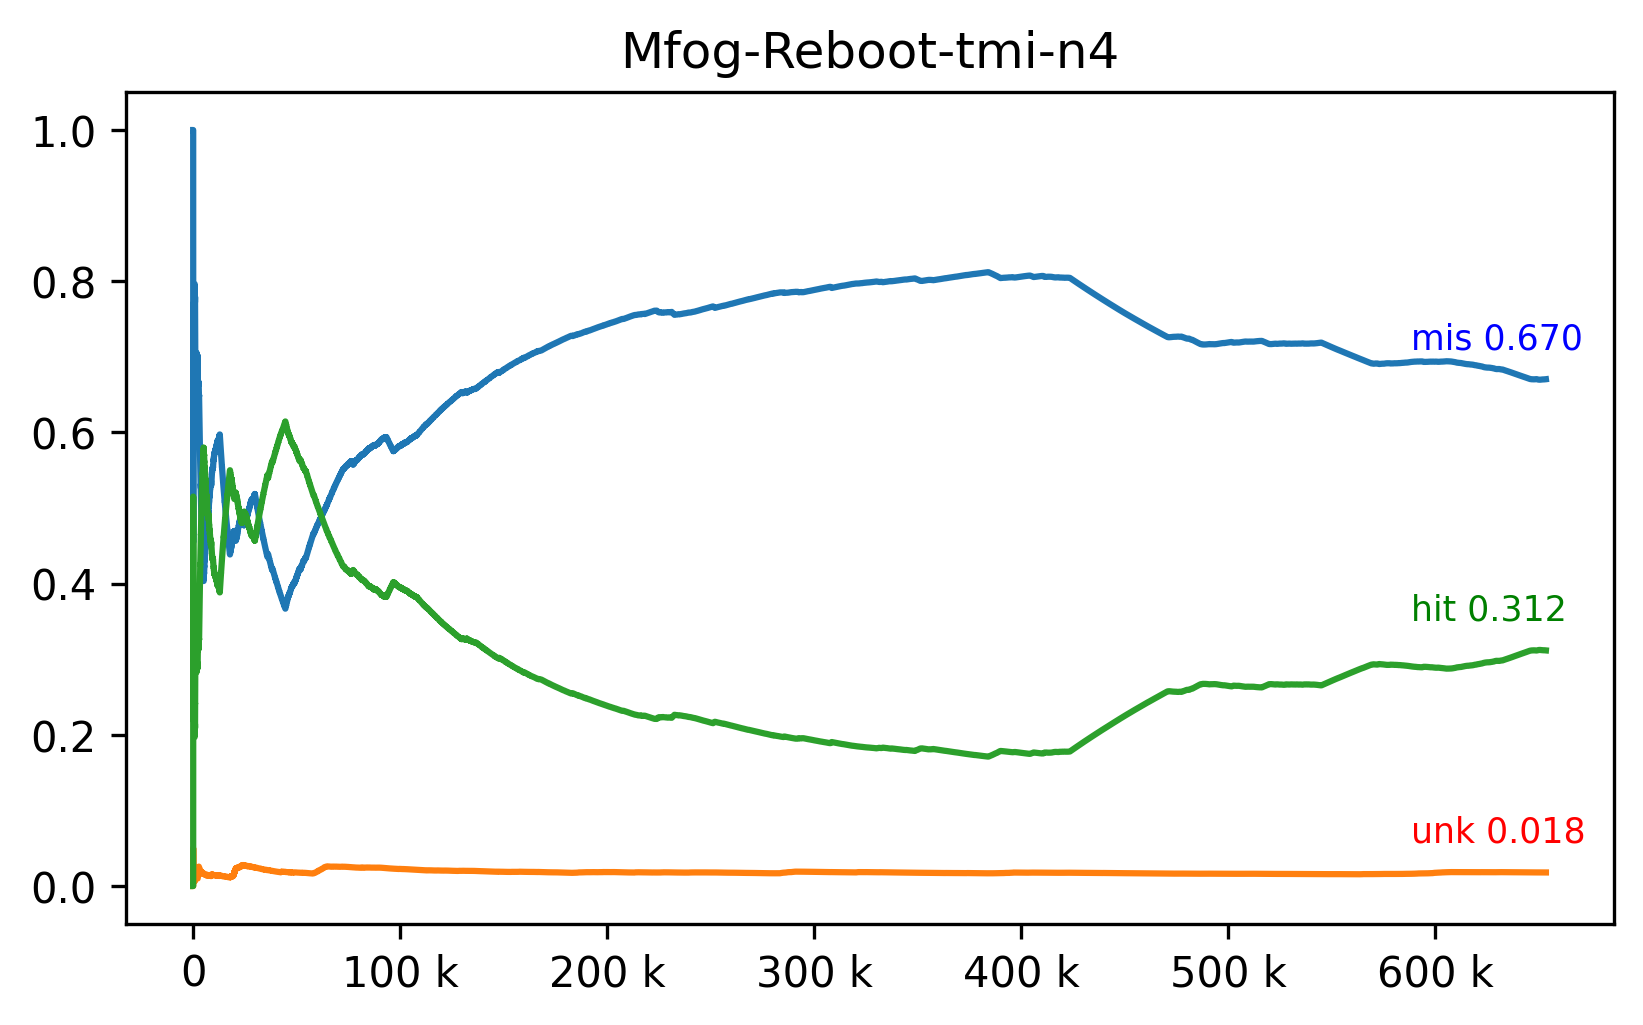
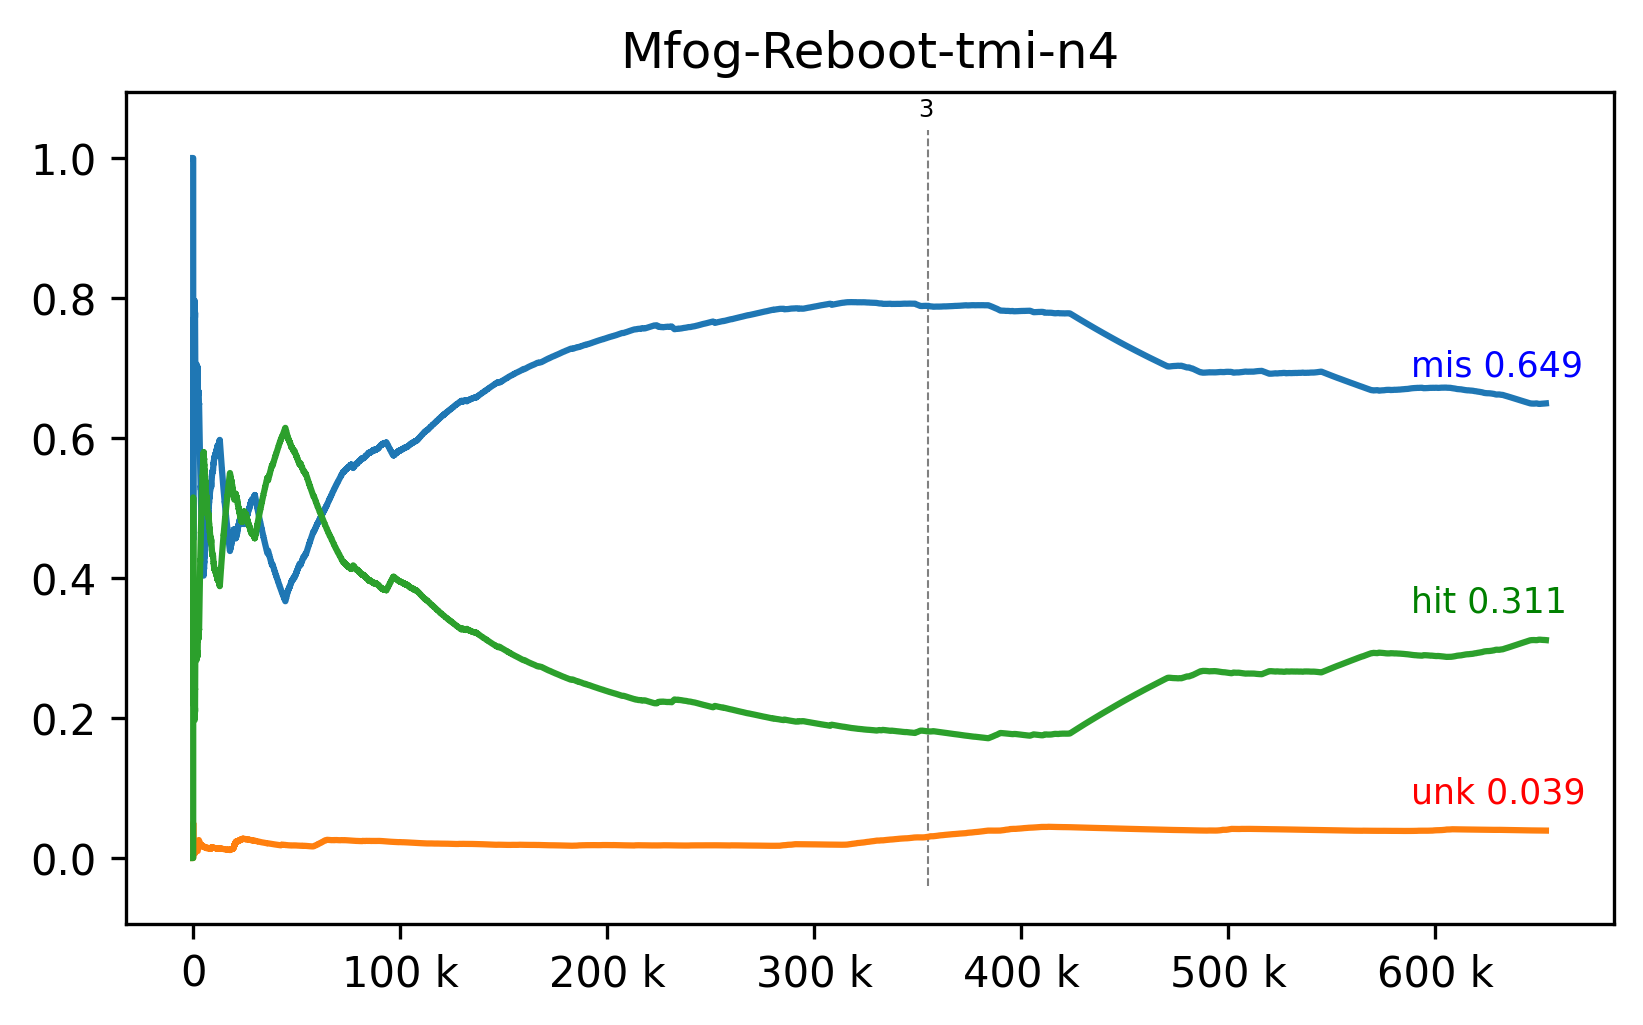
reboot turn on novelty detection (id was not incremented)

diff --git a/src/reboot/threaded-mpi.c b/src/reboot/threaded-mpi.c
@@ -23,12 +23,12 @@
 #define MFOG_TAG_UNKNOWN 2005
 #define MFOG_EOS_MARKER '\127'
 
-typedef struct {
-    Example *buff;
-    int size, head, tail, len;
-    // Semaforo de dados para o emissor
-    sem_t senderSem;
-} CircularExampleBuffer;
+// typedef struct {
+//     Example *buff;
+//     int size, head, tail, len;
+//     // Semaforo de dados para o emissor
+//     sem_t senderSem;
+// } CircularExampleBuffer;
 
 struct ThreadArgs_s {
     int kParam, dim, minExamplesPerCluster;
@@ -36,13 +36,15 @@ struct ThreadArgs_s {
     // mpi stuff
     int mpiRank, mpiSize;
     char *mpiProcessorName;
-    CircularExampleBuffer unkBuffer;
+    // CircularExampleBuffer unkBuffer;
     Model *model;
     pthread_mutex_t modelMutex;
+    sem_t modelReadySemaphore;
 };
 typedef struct ThreadArgs_s ThreadArgs;
 
 void *classifier(void *arg) {
+    clock_t start = clock();
     ThreadArgs *args = arg;
     Example example;
     example.val = calloc(args->dim, sizeof(double));
@@ -72,13 +74,13 @@ void *classifier(void *arg) {
         (*inputLine)++;
         //
         while (model->size < args->kParam) {
-            fprintf(stderr, "model incomplete %d, sleep(1);\n", model->size);
-            sleep(1);
+            fprintf(stderr, "model incomplete %d, wait(modelReadySemaphore);\n", model->size);
+            sem_wait(&args->modelReadySemaphore);
         }
         pthread_mutex_lock(&args->modelMutex);
         identify(args->kParam, args->dim, args->precision, args->radiusF, model, &example, &match);
         pthread_mutex_unlock(&args->modelMutex);
-        // 
+        //
         example.label = match.label;
         position = 0;
         assertMpi(MPI_Pack(&example, sizeof(Example), MPI_BYTE, buffer, bufferSize, &position, MPI_COMM_WORLD));
@@ -91,6 +93,7 @@ void *classifier(void *arg) {
         // for (unsigned int d = 0; d < args->dim; d++)
         //     printf(", %le", example.val[d]);
         // printf("\n");
+        //
         // fprintf(stderr, "U-sender Example(%u, %c, %le)\n", example.id, example.label, example.val[0]);
         // assertMpi(MPI_Send(buffer, position, MPI_PACKED, MFOG_RANK_MAIN, MFOG_TAG_UNKNOWN, MPI_COMM_WORLD));
         // the buffer is full when the head pointer is one less than the tail pointer.
@@ -106,9 +109,10 @@ void *classifier(void *arg) {
         // valuePtr = example.val;
         // sem_post(&args->unkBuffer.senderSem);
     }
-    marker("classifier done");
+    fprintf(stderr, "[%s] %le seconds. At %s:%d\n", "classifier", ((double)clock() - start) / 1000000.0, __FILE__, __LINE__);
     return inputLine;
 }
+/*
 void *u_sender(void *arg) {
     ThreadArgs *args = arg;
     Example example;
@@ -145,6 +149,7 @@ void *u_sender(void *arg) {
     }
     marker("u_sender done");
 }
+*/
 
 /**
  * @brief In rank N != 0, this thread receives model updates.
@@ -153,6 +158,7 @@ void *u_sender(void *arg) {
  * @return void* 
  */
 void *m_receiver(void *arg) {
+    clock_t start = clock();
     ThreadArgs *args = arg;
     Cluster *cl = calloc(1, sizeof(Cluster));
     cl->center = calloc(args->dim, sizeof(double));
@@ -161,7 +167,6 @@ void *m_receiver(void *arg) {
     Model *model = args->model;
     fprintf(stderr, "m_receiver at %d/%d\n", args->mpiRank, args->mpiSize);
     while (1) {
-        // marker("MPI_Bcast");
         assertMpi(MPI_Bcast(cl, sizeof(Cluster), MPI_BYTE, MFOG_RANK_MAIN, MPI_COMM_WORLD));
         if (cl->label == MFOG_EOS_MARKER) break;
         assertMpi(MPI_Bcast(valuePtr, args->dim, MPI_DOUBLE, MFOG_RANK_MAIN, MPI_COMM_WORLD));
@@ -177,11 +182,18 @@ void *m_receiver(void *arg) {
         model->clusters[model->size] = *cl;
         model->size++;
         pthread_mutex_unlock(&args->modelMutex);
+        if (model->size == args->kParam) {
+            fprintf(stderr, "model complete\n");
+            sem_post(&args->modelReadySemaphore);
+        }
+        // if (model->size > args->kParam) {
+        //     marker("extra cluster");
+        // }
         // new center array, prep for next cluster
         cl->center = calloc(args->dim, sizeof(double));
         valuePtr = cl->center;
     }
-    marker("m_receiver done");
+    fprintf(stderr, "[%s] %le seconds. At %s:%d\n", "m_receiver", ((double)clock() - start) / 1000000.0, __FILE__, __LINE__);
     return model;
 }
 
@@ -192,6 +204,7 @@ void *m_receiver(void *arg) {
  * @return void* ptr to int consumed lines
  */
 void *sampler(void *arg) {
+    clock_t start = clock();
     ThreadArgs *args = arg;
     unsigned int id = 0;
     Example example;
@@ -249,7 +262,7 @@ void *sampler(void *arg) {
     for (dest = 1; dest < args->mpiSize; dest++) {
         assertMpi(MPI_Send(buffer, position, MPI_PACKED, dest, MFOG_TAG_EXAMPLE, MPI_COMM_WORLD));
     }
-    marker("Sampler done");
+    fprintf(stderr, "[%s] %le seconds. At %s:%d\n", "sampler", ((double)clock() - start) / 1000000.0, __FILE__, __LINE__);
     return inputLine;
 }
 
@@ -261,6 +274,7 @@ void *sampler(void *arg) {
  * @return void* ptr to int consumed lines
  */
 void *detector(void *arg) {
+    clock_t start = clock();
     ThreadArgs *args = arg;
     size_t *inputLine = calloc(1, sizeof(size_t));
     int streams = args->mpiSize - 1;
@@ -300,6 +314,7 @@ void *detector(void *arg) {
             continue;
         }
         //
+        id = example.id > id ? example.id : id;
         printf("%10u,%s\n", example.id, printableLabel(example.label));
         if (example.label != UNK_LABEL) continue;
         printf("Unknown: %10u", example.id);
@@ -312,10 +327,12 @@ void *detector(void *arg) {
         example.val = calloc(dim, sizeof(double));
         if (unknownsSize >= unknownsMaxSize) {
             unknownsMaxSize *= 2;
+            // marker("realloc unknowns");
             unknowns = realloc(unknowns, unknownsMaxSize * sizeof(Example));
         }
         //
         if (unknownsSize % noveltyDetectionTrigger == 0 && id - lastNDCheck > noveltyDetectionTrigger) {
+            // marker("noveltyDetection");
             lastNDCheck = id;
             unsigned int prevSize = model->size;
             noveltyDetection(PARAMS, model, unknowns, unknownsSize);
@@ -346,14 +363,12 @@ void *detector(void *arg) {
     Cluster cl;
     cl.label = MFOG_EOS_MARKER;
     assertMpi(MPI_Bcast(&cl, sizeof(Cluster), MPI_BYTE, MFOG_RANK_MAIN, MPI_COMM_WORLD));
-    marker("detector done");
+    fprintf(stderr, "[%s] %le seconds. At %s:%d\n", "detector", ((double)clock() - start) / 1000000.0, __FILE__, __LINE__);
     return inputLine;
 }
 
 int main(int argc, char const *argv[]) {
-    // int result, count, i, tag;
-    srand(getpid());
-
+    clock_t start = clock();
     ThreadArgs args;
     args.kParam=100;
     args.dim=22;
@@ -365,10 +380,10 @@ int main(int argc, char const *argv[]) {
     double precision = args.precision, radiusF = args.radiusF, noveltyF = args.noveltyF;
     //
     int provided;
-    int result = MPI_Init_thread(&argc, (char***) &argv, MPI_THREAD_MULTIPLE, &provided);
-    if (result != MPI_SUCCESS || provided != MPI_THREAD_MULTIPLE) {
-        MPI_Abort(MPI_COMM_WORLD, result);
-        fail("Erro iniciando programa MPI #%d.\n", result);
+    int mpiReturn = MPI_Init_thread(&argc, (char ***)&argv, MPI_THREAD_MULTIPLE, &provided);
+    if (mpiReturn != MPI_SUCCESS || provided != MPI_THREAD_MULTIPLE) {
+        MPI_Abort(MPI_COMM_WORLD, mpiReturn);
+        fail("Erro iniciando programa MPI #%d.\n", mpiReturn);
     }
     MPI_Comm_rank(MPI_COMM_WORLD, &args.mpiRank);
     MPI_Comm_size(MPI_COMM_WORLD, &args.mpiSize);
@@ -383,19 +398,26 @@ int main(int argc, char const *argv[]) {
             "Hello from %s, rank %d/%d\n",
             argv[0], PARAMS, args.mpiProcessorName, args.mpiRank, args.mpiSize);
     //
-    assertErrno(sem_init(&args.unkBuffer.senderSem, 0, 0) >= 0, "Semaphore init fail%c.", '.', /**/);
+    // assertErrno(sem_init(&args.unkBuffer.senderSem, 0, 0) >= 0, "Semaphore init fail%c.", '.', /**/);
+    assertErrno(sem_init(&args.modelReadySemaphore, 0, 0) >= 0, "Semaphore init fail%c.", '.', /**/);
     assertErrno(pthread_mutex_init(&args.modelMutex, NULL) >= 0, "Mutex init fail%c.", '.', /**/);
     //
     args.model = calloc(1, sizeof(Model));
     args.model->size = 0;
     args.model->nextLabel = '\0';
     args.model->clusters = calloc(kParam, sizeof(Cluster));
-    args.unkBuffer.head = 0;
-    args.unkBuffer.tail = 0;
-    args.unkBuffer.len = 0;
-    args.unkBuffer.size = 20;
-    args.unkBuffer.buff = calloc(args.unkBuffer.size, sizeof(Example));
+    // args.unkBuffer.head = 0;
+    // args.unkBuffer.tail = 0;
+    // args.unkBuffer.len = 0;
+    // args.unkBuffer.size = 20;
+    // int exampleBufferLen, valueBufferLen;
+    // assertMpi(MPI_Pack_size(sizeof(Example), MPI_BYTE, MPI_COMM_WORLD, &exampleBufferLen));
+    // assertMpi(MPI_Pack_size(args.dim, MPI_DOUBLE, MPI_COMM_WORLD, &valueBufferLen));
+    // int bufferSize = exampleBufferLen + valueBufferLen + 2 * MPI_BSEND_OVERHEAD;
+    // int *buffer = (int *)malloc(bufferSize);
+    // args.unkBuffer.buff = calloc(args.unkBuffer.size, bufferSize);
     //
+    int result;
     if (args.mpiRank == MFOG_RANK_MAIN) {
         printf("#pointId,label\n");
 
@@ -418,6 +440,8 @@ int main(int argc, char const *argv[]) {
         assertErrno(pthread_join(m_receiver_t, (void **)&result) == 0, "Thread join fail%c.", '.', MPI_Finalize());
     }
     free(args.model);
-    sem_destroy(&args.unkBuffer.senderSem);
+    // sem_destroy(&args.unkBuffer.senderSem);
+    sem_destroy(&args.modelReadySemaphore);
+    fprintf(stderr, "[%s] %le seconds. At %s:%d\n", argv[0], ((double)clock() - start) / 1000000.0, __FILE__, __LINE__);
     return MPI_Finalize();
 }

diff --git a/src/reboot/detection.c b/src/reboot/detection.c
@@ -47,6 +47,7 @@ int main(int argc, char const *argv[]) {
             printCluster(dim, &model->clusters[model->size -1]);
             continue;
         }
+        // id++;
         if (lineptr[0] != 'U') {
             continue;
         }
@@ -58,6 +59,7 @@ int main(int argc, char const *argv[]) {
             assertMsg(sscanf(&lineptr[readTot], ", %le%n", &example.val[d], &readCur), "Didn't understand '%s'.", &lineptr[readTot]);
             readTot += readCur;
         }
+        id = example.id > id ? example.id : id;
         unknowns[unknownsSize] = example;
         unknownsSize++;
         example.val = calloc(dim, sizeof(double));

diff --git a/src/evaluation/evaluate.py b/src/evaluation/evaluate.py
@@ -38,10 +38,14 @@ def getMatchesDf(path):
         isMfog = firstLine.startswith('#pointId,')
     # 
     if isMfog:
-        df = pd.read_csv(filepath_or_buffer=path)
-        df['id'] = df['#pointId'].astype(int)
-        df['og_label'] = df['label']
-        return df
+        try:
+            df = pd.read_csv(filepath_or_buffer=path)
+            df['id'] = df['#pointId'].astype(int)
+            df['og_label'] = df['label']
+            return df
+        except pd.errors.ParserError as err:
+            print((err, path))
+            raise(err)
     # 
     if isOriginalFormat:
         if isOriginalFormatWithHeader:
